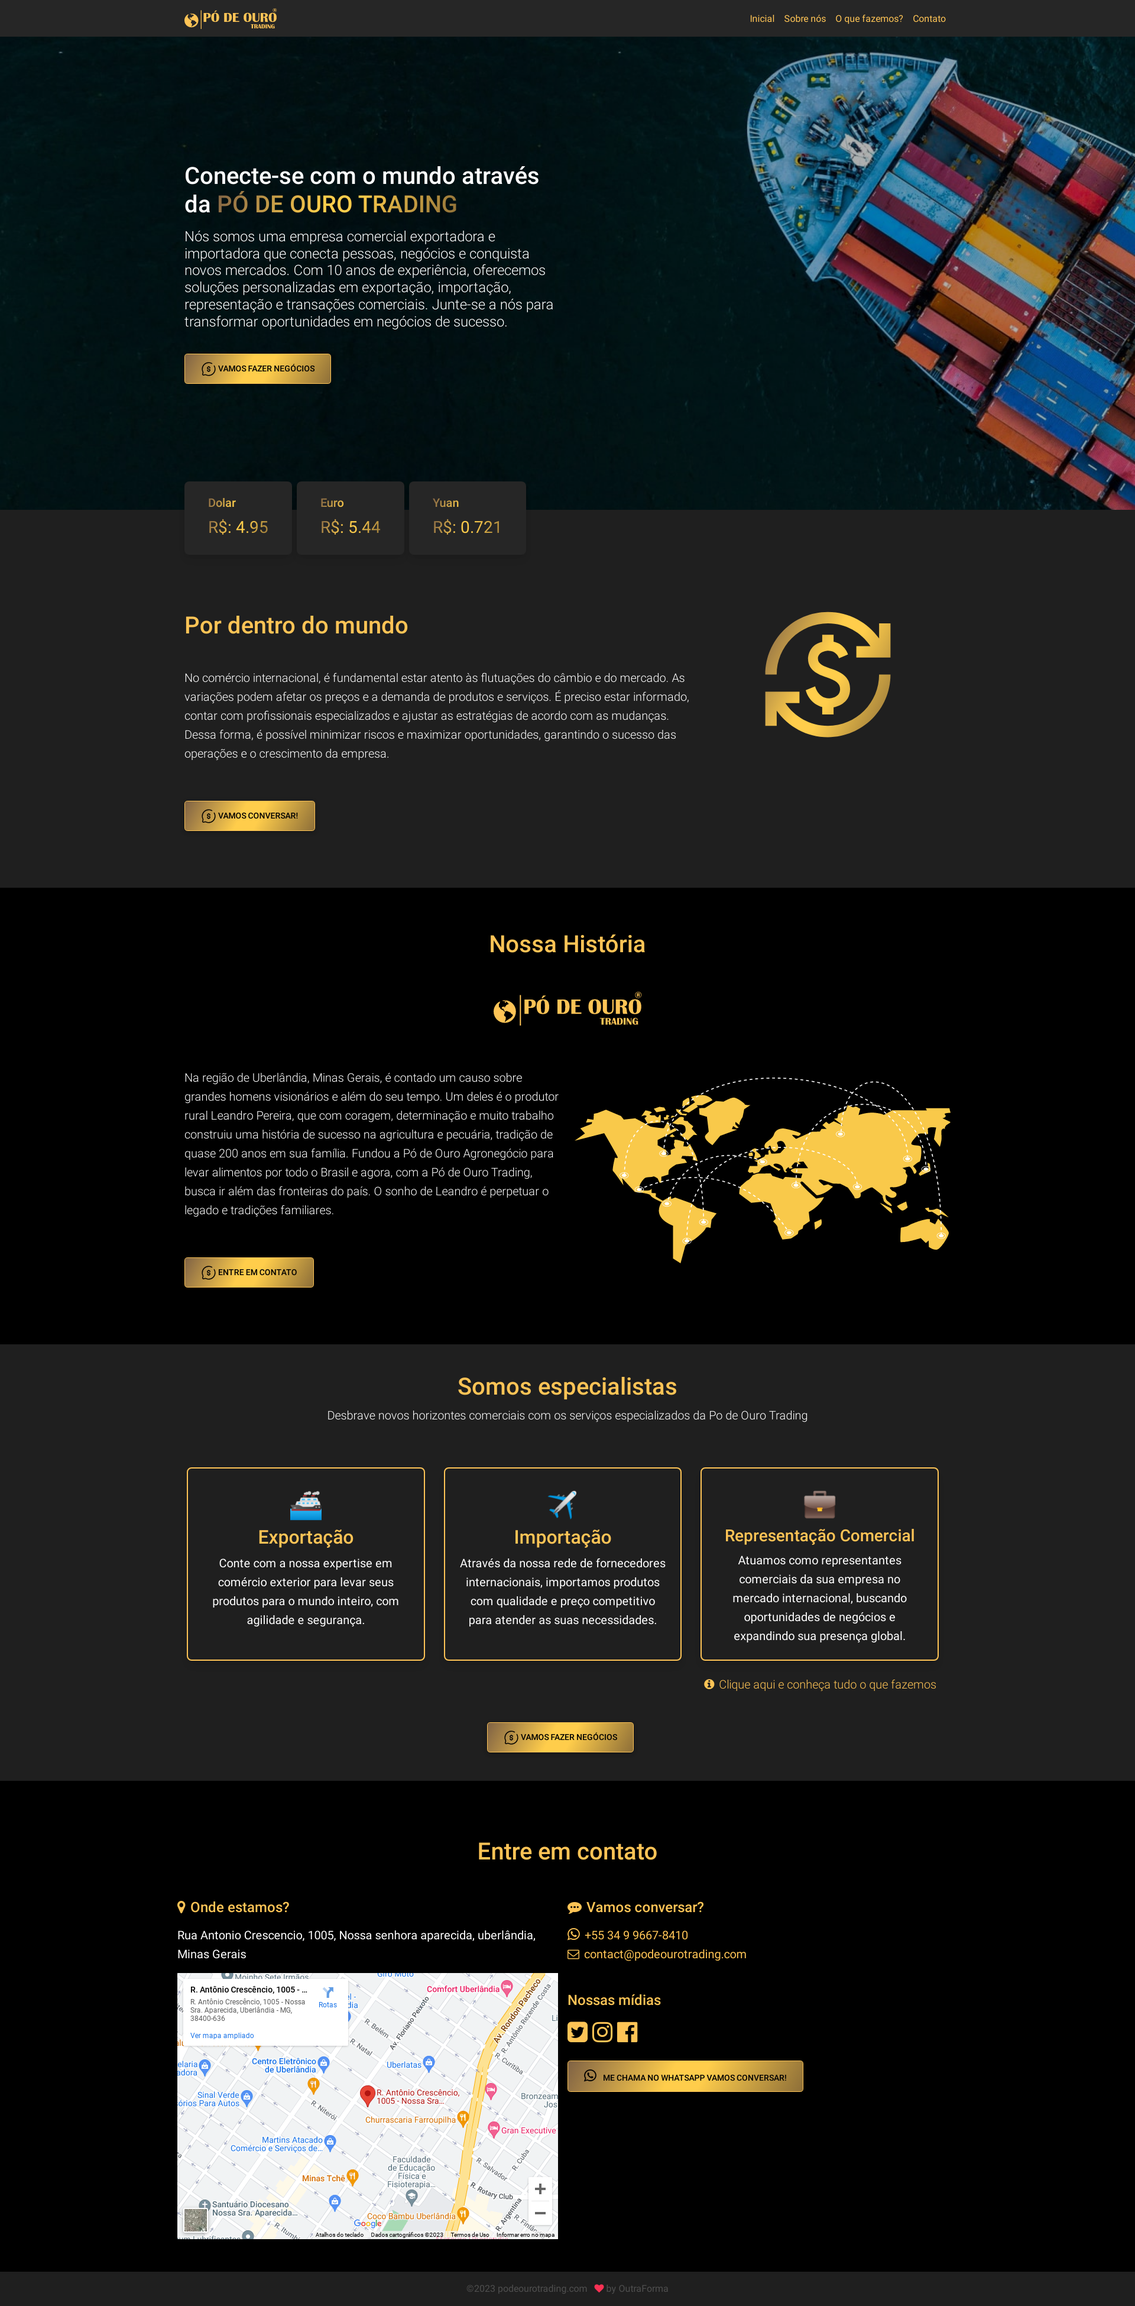
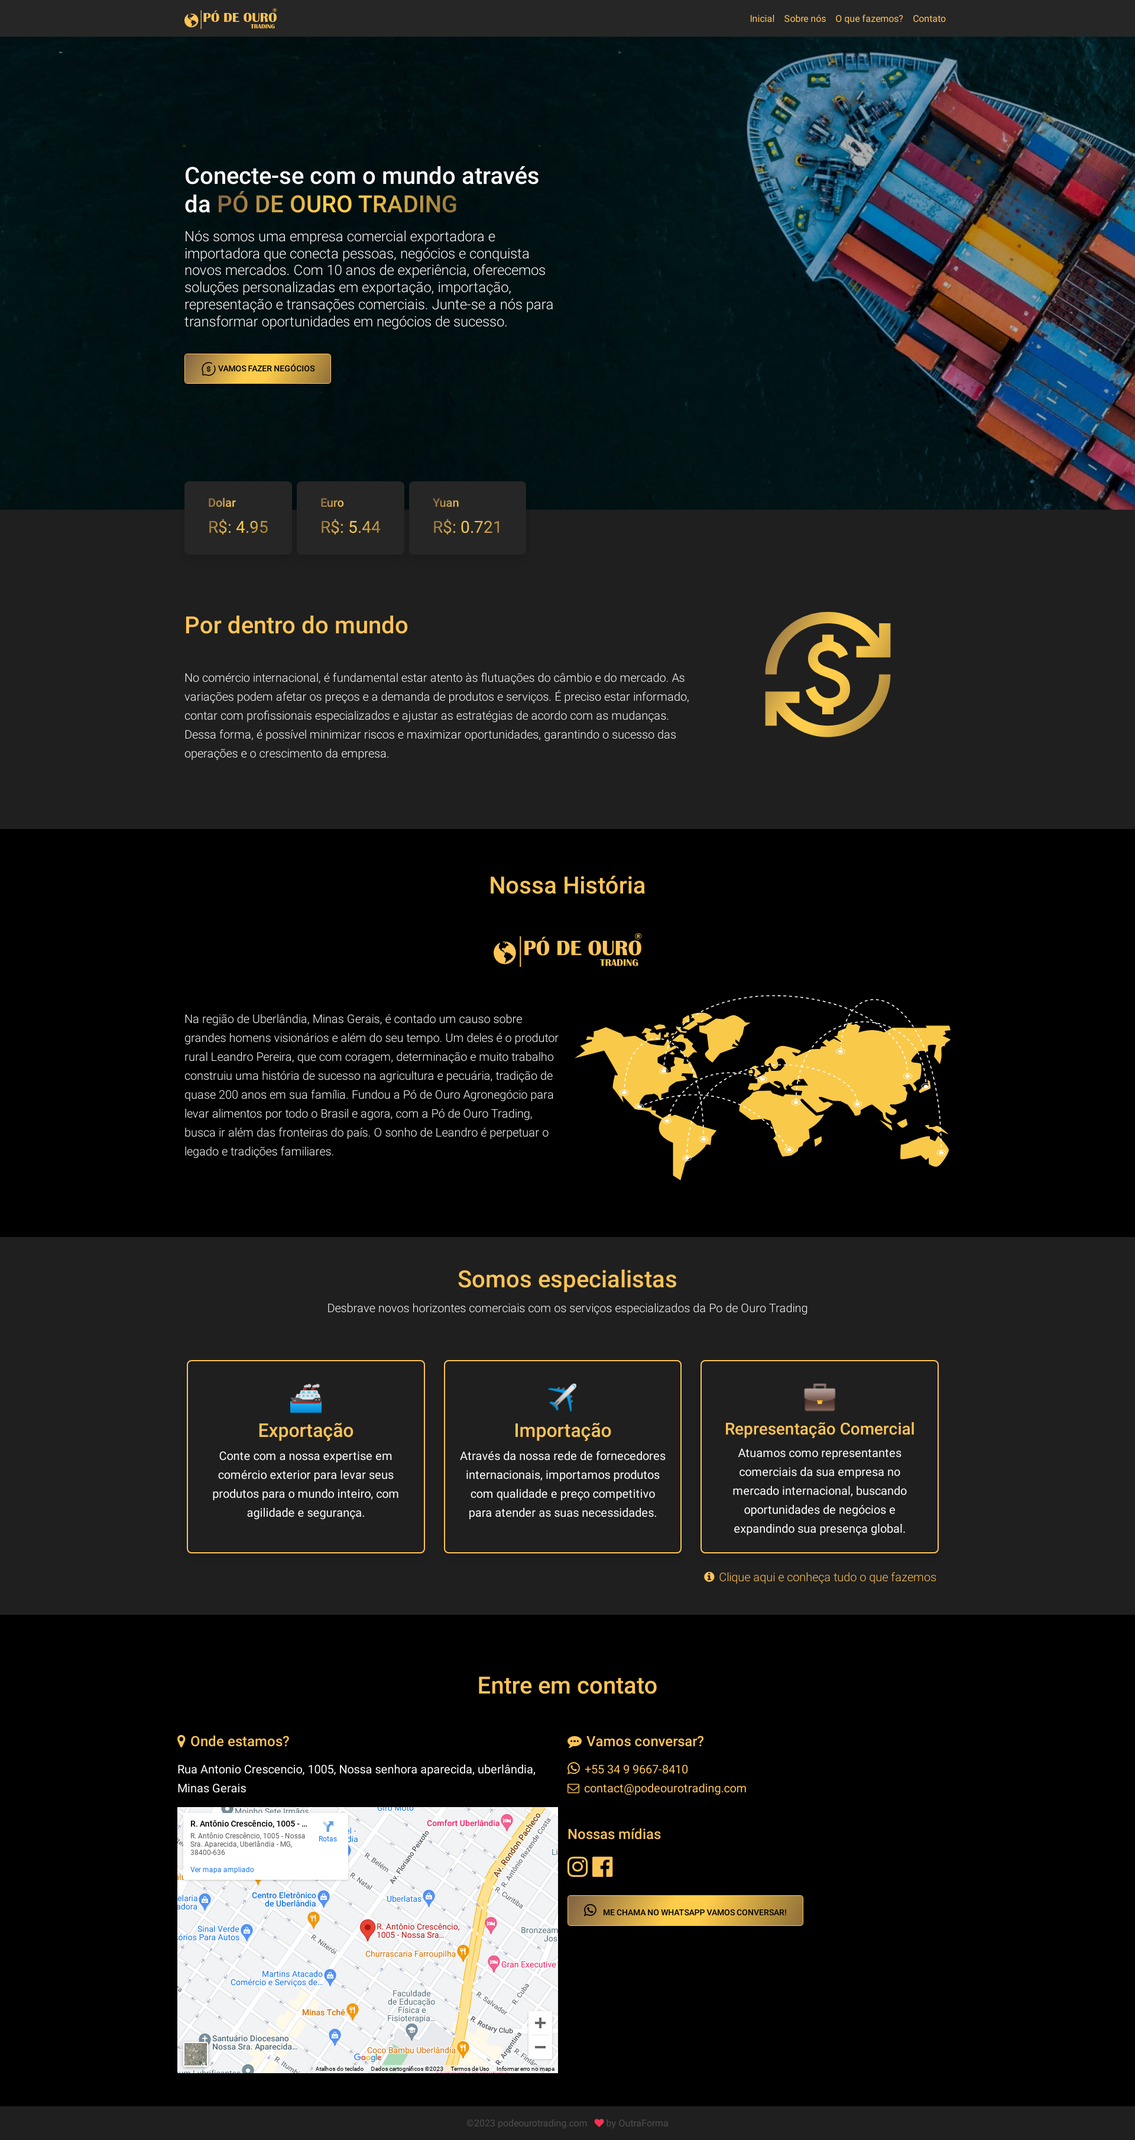
correcao https

diff --git a/index.html b/index.html
@@ -26,6 +26,11 @@
   <!-- CSS ICON PERSONALIZADO -->
   <link rel="stylesheet" href="css/icones.css">
 
+  <script
+  src="https://code.jquery.com/jquery-3.6.4.min.js"
+  integrity="sha256-oP6HI9z1XaZNBrJURtCoUT5SUnxFr8s3BzRl+cbzUq8="
+  crossorigin="anonymous"></script>
+
 
 </head>
 
@@ -83,7 +88,7 @@
             <div class="col-md-6">
               <div class="text-white">
                 <h1 class="mb-3">Conecte-se com o mundo através da
-                  <span class="especial-text">PÓ DE OURO TRADING</span>
+                  <span class="especial-text text-focus-in">PÓ DE OURO TRADING</span>
                 </h1>
                 <h4 class="mb-4" style="font-weight: lighter;">Nós somos uma empresa comercial exportadora e importadora
                   que conecta pessoas, negócios e conquista novos mercados. Com 10 anos de experiência, oferecemos
@@ -128,40 +133,52 @@
           <div class="card  ps-3 pe-3 bg-dark me-2">
             <div class="card-body text-start">
               <h5 class="card-title especial-text">Dolar</h5>
-              <p class="card-text fs-3 especial-text" id='dolar'></p>
+              <p class="card-text fs-3 especial-text" id='dolar'><div class="spinner-border" role="status">
+                <span class="visually-hidden">Loading...</span>
+              </div></p>
             </div>
           </div>
           <div class="card  ps-3 pe-3 bg-dark me-2">
             <div class="card-body text-start">
               <h5 class="card-title especial-text">Euro</h5>
-              <p class="card-text fs-3 especial-text" id='euro'></p>
+              <p class="card-text fs-3 especial-text" id='euro'><div class="spinner-border" role="status">
+                <span class="visually-hidden">Loading...</span>
+              </div></p>
             </div>
           </div>
           <div class="card ps-3 pe-3 bg-dark text-start">
             <div class="card-body ">
               <h5 class="card-title especial-text">Yuan</h5>
-              <p class="card-text fs-3 especial-text" id='yuan'></p>
+              <p class="card-text fs-3 especial-text" id='yuan'><div class="spinner-border" role="status">
+                <span class="visually-hidden">Loading...</span>
+              </div></p>
             </div>
           </div>
         </div>
         <div class="d-md-none col-md-12 mb-2">
           <div class="card bg-dark">
             <div class="card-body text-start">
-              <h5 class="card-title especial-text">Dolar: <span id="dolar-sm" class="h6"></span></h5>
+              <h5 class="card-title especial-text">Dolar: <span id="dolar-sm" class="h6"><div class="spinner-border" role="status">
+                <span class="visually-hidden">Loading...</span>
+              </div></span></h5>
             </div>
           </div>
         </div>
         <div class="d-md-none col-md-12 mb-2">
           <div class="card bg-dark">
             <div class="card-body text-start">
-              <h5 class="card-title especial-text">Euro: <span id="euro-sm" class="h6"></span></h5>
+              <h5 class="card-title especial-text">Euro: <span id="euro-sm" class="h6"><div class="spinner-border" role="status">
+                <span class="visually-hidden">Loading...</span>
+              </div></span></h5>
             </div>
           </div>
         </div>
         <div class="d-md-none col-md-12">
           <div class="card bg-dark text-start">
             <div class="card-body ">
-              <h5 class="card-title especial-text">Yuan: <span id="yuan-sm" class="h6"></span></h5>
+              <h5 class="card-title especial-text">Yuan: <span id="yuan-sm" class="h6"><div class="spinner-border" role="status">
+                <span class="visually-hidden">Loading...</span>
+              </div></span></h5>
             </div>
           </div>
         </div>
@@ -170,7 +187,7 @@
         <div class="col-md-8">
           <h2 class="h1 text-principal">Por dentro do mundo</h2>
           <p class="text-white fs-5 mt-5" style="font-weight: lighter;">No comércio internacional, é fundamental estar atento às flutuações do câmbio e do mercado. As variações podem afetar os preços e a demanda de produtos e serviços. É preciso estar informado, contar com profissionais especializados e ajustar as estratégias de acordo com as mudanças. Dessa forma, é possível minimizar riscos e maximizar oportunidades, garantindo o sucesso das operações e o crescimento da empresa.</p>
-          <a class="btn btn-especial btn-lg mt-5 d-none d-md-inline-block" href="https://wa.me/5534996678410?text=Ol%C3%A1%2C+Quero+fazer+neg%C3%B3cios+hoje." role="button"
+          <a class="btn btn-especial btn-lg mt-5 d-none" href="https://wa.me/5534996678410?text=Ol%C3%A1%2C+Quero+fazer+neg%C3%B3cios+hoje." role="button"
                   rel="nofollow" target="_blank"><svg width="26" height="26" viewBox="0 0 26 26" fill="none"
                     xmlns="http://www.w3.org/2000/svg">
                     <path
@@ -180,7 +197,7 @@
                       d="M18.4166 3.61617C16.7705 2.66381 14.9017 2.16374 13 2.16667C7.01671 2.16667 2.16663 7.01675 2.16663 13C2.16663 14.7333 2.57396 16.3713 3.29654 17.8241C3.48938 18.2098 3.55329 18.6507 3.44171 19.0678L2.79713 21.4793C2.73352 21.7178 2.73376 21.9689 2.79782 22.2074C2.86188 22.4459 2.9875 22.6633 3.16209 22.8379C3.33668 23.0125 3.55411 23.1381 3.79257 23.2021C4.03102 23.2662 4.28213 23.2664 4.52071 23.2028L6.93221 22.5583C7.35082 22.4529 7.79349 22.5041 8.17696 22.7023C9.67513 23.4484 11.3263 23.8356 13 23.8333C18.9832 23.8333 23.8333 18.9833 23.8333 13C23.8333 11.0273 23.3057 9.17584 22.3838 7.58334"
                       stroke="black" stroke-width="1.5" stroke-linecap="round" />
                   </svg> Vamos conversar!</a>
-                  <a class="btn btn-especial btn-lg mt-5 d-md-none w-100" href="https://wa.me/5534996678410?text=Ol%C3%A1%2C+Quero+fazer+neg%C3%B3cios+hoje." role="button"
+                  <a class="btn btn-especial btn-lg mt-5 d-none w-100" href="https://wa.me/5534996678410?text=Ol%C3%A1%2C+Quero+fazer+neg%C3%B3cios+hoje." role="button"
                   rel="nofollow" target="_blank"><svg width="26" height="26" viewBox="0 0 26 26" fill="none"
                     xmlns="http://www.w3.org/2000/svg">
                     <path
@@ -192,7 +209,7 @@
                   </svg> Vamos conversar!</a>
         </div>
         <div class="col-md-4 text-center d-none d-md-block">
-          <img src="img/dolar.svg" alt="Nós te ajudamos a fazer negocios." class="text-center">
+          <img src="img/dolar.svg" alt="Nós te ajudamos a fazer negocios." class="text-center rotate-center">
 
         </div>
       </div>
@@ -214,7 +231,7 @@
           <p class="text-white fs-5 mt-4 " style="font-weight: lighter;">
             Na região de Uberlândia, Minas Gerais, é contado um causo sobre grandes homens visionários e além do seu tempo. Um deles é o produtor rural Leandro Pereira, que com coragem, determinação e muito trabalho construiu uma história de sucesso na agricultura e pecuária, tradição de quase 200 anos em sua família. Fundou a Pó de Ouro Agronegócio para levar alimentos por todo o Brasil e agora, com a Pó de Ouro Trading, busca ir além das fronteiras do país. O sonho de Leandro é perpetuar o legado e tradições familiares.
           </p>
-          <a class="btn btn-especial btn-lg mt-5 d-none d-md-inline-block" href="https://wa.me/5534996678410?text=Ol%C3%A1%2C+Quero+fazer+neg%C3%B3cios+hoje." role="button"
+          <a class="btn btn-especial btn-lg mt-5 d-none" href="https://wa.me/5534996678410?text=Ol%C3%A1%2C+Quero+fazer+neg%C3%B3cios+hoje." role="button"
           rel="nofollow" target="_blank"><svg width="26" height="26" viewBox="0 0 26 26" fill="none"
             xmlns="http://www.w3.org/2000/svg">
             <path
@@ -224,7 +241,7 @@
               d="M18.4166 3.61617C16.7705 2.66381 14.9017 2.16374 13 2.16667C7.01671 2.16667 2.16663 7.01675 2.16663 13C2.16663 14.7333 2.57396 16.3713 3.29654 17.8241C3.48938 18.2098 3.55329 18.6507 3.44171 19.0678L2.79713 21.4793C2.73352 21.7178 2.73376 21.9689 2.79782 22.2074C2.86188 22.4459 2.9875 22.6633 3.16209 22.8379C3.33668 23.0125 3.55411 23.1381 3.79257 23.2021C4.03102 23.2662 4.28213 23.2664 4.52071 23.2028L6.93221 22.5583C7.35082 22.4529 7.79349 22.5041 8.17696 22.7023C9.67513 23.4484 11.3263 23.8356 13 23.8333C18.9832 23.8333 23.8333 18.9833 23.8333 13C23.8333 11.0273 23.3057 9.17584 22.3838 7.58334"
               stroke="black" stroke-width="1.5" stroke-linecap="round" />
           </svg> Entre em contato</a>
-          <a class="btn btn-especial btn-lg mt-5 w-100 d-md-none" href="https://wa.me/5534996678410?text=Ol%C3%A1%2C+Quero+fazer+neg%C3%B3cios+hoje." role="button"
+          <a class="btn btn-especial btn-lg mt-5 w-100 d-none" href="https://wa.me/5534996678410?text=Ol%C3%A1%2C+Quero+fazer+neg%C3%B3cios+hoje." role="button"
           rel="nofollow" target="_blank"><svg width="26" height="26" viewBox="0 0 26 26" fill="none"
             xmlns="http://www.w3.org/2000/svg">
             <path
@@ -236,7 +253,7 @@
           </svg> Entre em contato</a>
         </div>
         <div class="col-md-6 d-flex align-items-center mt-5 mt-md-0 justify-content-center" >
-          <img src="img/mapa.svg" alt="" width="100%">
+          <img src="img/mapa.svg" alt="" width="100%" class="tilt-in-fwd-tr ">
         </div>
       </div>
     </article>
@@ -359,7 +376,7 @@
             <i class="fas fa-circle-info"></i>
             <a href="#" class="fs-5 fw-light text-principal"><i class="fa fa-info-circle me-2" aria-hidden="true"></i>Clique aqui e conheça tudo o que fazemos</a>
           </div>
-          <div class="col-md-12 text-center d-md-block d-none">
+          <div class="col-md-12 text-center d-none">
             <a class="btn btn-especial btn-lg mt-5" href="https://wa.me/5534996678410?text=Ol%C3%A1%2C+Quero+fazer+neg%C3%B3cios+hoje." role="button"
             rel="nofollow" target="_blank"><svg width="26" height="26" viewBox="0 0 26 26" fill="none"
               xmlns="http://www.w3.org/2000/svg">
@@ -371,7 +388,7 @@
                 stroke="black" stroke-width="1.5" stroke-linecap="round" />
             </svg> Vamos fazer negócios</a>
           </div>
-          <div class="col-md-12 text-center d-md-none">
+          <div class="col-md-12 text-center d-none">
             <a class="btn btn-especial btn-lg mt-5 w-100" href="https://wa.me/5534996678410?text=Ol%C3%A1%2C+Quero+fazer+neg%C3%B3cios+hoje." role="button"
             rel="nofollow" target="_blank"><svg width="26" height="26" viewBox="0 0 26 26" fill="none"
               xmlns="http://www.w3.org/2000/svg">
@@ -414,7 +431,7 @@
             </div>
             <div class="row mt-2 gx-0 gx-md-3">
               <div class="col-md-12 link-icones">
-                <a class="" href="http://"><i class="fa fa-twitter-square h1 me-2" aria-hidden="true"></i></a><a class="" href="http://"><i class="fa fa-instagram h1 me-2" aria-hidden="true"></i></a><a class="" href="http://"><i class="fa fa-facebook-official h1" aria-hidden="true"></i></a>
+                <a class="" href="http://"><i class="fa fa-instagram h1 me-2" aria-hidden="true"></i></a><a class="" href="http://"><i class="fa fa-facebook-official h1" aria-hidden="true"></i></a>
               </div>
               <div class="col-md-12 d-none d-md-block">
                 <a class="btn btn-especial btn-lg mt-3" href="https://wa.me/5534996678410?text=Ol%C3%A1%2C+Quero+fazer+neg%C3%B3cios+hoje." role="button"
@@ -464,6 +481,7 @@
           // Preenche o elemento <p> com o ID "dolar" com o valor da taxa de câmbio
           const dolarElement = document.getElementById('dolar');
           dolarElement.textContent = `R$: ${dollarToBRLRate}`;
+          $(".spinner-border").addClass("d-none");
         })
         .catch(error => {
           console.error('Erro ao obter a taxa de câmbio:', error);
@@ -482,6 +500,7 @@
           // Preenche o elemento <p> com o ID "dolar" com o valor da taxa de câmbio
           const dolarElement = document.getElementById('dolar-sm');
           dolarElement.textContent = `R$: ${dollarToBRLRate}`;
+          $(".spinner-border").addClass("d-none");
         })
         .catch(error => {
           console.error('Erro ao obter a taxa de câmbio:', error);
@@ -501,6 +520,7 @@
           // Preenche o elemento <p> com o ID "dolar" com o valor da taxa de câmbio
           const dolarElement = document.getElementById('euro');
           dolarElement.textContent = `R$: ${dollarToBRLRate}`;
+          $(".spinner-border").addClass("d-none");
         })
         .catch(error => {
           console.error('Erro ao obter a taxa de câmbio:', error);
@@ -537,6 +557,7 @@
           // Preenche o elemento <p> com o ID "dolar" com o valor da taxa de câmbio
           const dolarElement = document.getElementById('yuan');
           dolarElement.textContent = `R$: ${dollarToBRLRate}`;
+          $(".spinner-border").addClass("d-none");
         })
         .catch(error => {
           console.error('Erro ao obter a taxa de câmbio:', error);
@@ -556,6 +577,7 @@
           // Preenche o elemento <p> com o ID "dolar" com o valor da taxa de câmbio
           const dolarElement = document.getElementById('yuan-sm');
           dolarElement.textContent = `R$: ${dollarToBRLRate}`;
+          $(".spinner-border").addClass("d-none");
         })
         .catch(error => {
           console.error('Erro ao obter a taxa de câmbio:', error);

diff --git a/css/personalizado.css b/css/personalizado.css
@@ -89,6 +89,10 @@
     border: 2px solid #FEC456 !important;
 }
 
+.card-servicos:hover {
+    border: 2px solid #ffffff !important;
+}
+
 
 /* Contato */
 
@@ -109,3 +113,178 @@
 .bg-footer {
     background: #1F1F1F !important;
 }
+
+
+/* Animações */
+
+.text-focus-in {
+	-webkit-animation: text-focus-in 1s cubic-bezier(0.550, 0.085, 0.680, 0.530) both;
+	        animation: text-focus-in 1s cubic-bezier(0.550, 0.085, 0.680, 0.530) both;
+}
+
+/* ----------------------------------------------
+ * Generated by Animista on 2023-4-18 23:7:56
+ * Licensed under FreeBSD License.
+ * See http://animista.net/license for more info. 
+ * w: http://animista.net, t: @cssanimista
+ * ---------------------------------------------- */
+
+/**
+ * ----------------------------------------
+ * animation text-focus-in
+ * ----------------------------------------
+ */
+ @-webkit-keyframes text-focus-in {
+    0% {
+      -webkit-filter: blur(12px);
+              filter: blur(12px);
+      opacity: 0;
+    }
+    100% {
+      -webkit-filter: blur(0px);
+              filter: blur(0px);
+      opacity: 1;
+    }
+  }
+  @keyframes text-focus-in {
+    0% {
+      -webkit-filter: blur(12px);
+              filter: blur(12px);
+      opacity: 0;
+    }
+    100% {
+      -webkit-filter: blur(0px);
+              filter: blur(0px);
+      opacity: 1;
+    }
+  }
+  
+
+  .rotate-center {
+	-webkit-animation: rotate-center 0.6s ease-in-out both;
+	        animation: rotate-center 0.6s ease-in-out both;
+}
+
+/* ----------------------------------------------
+ * Generated by Animista on 2023-4-18 23:21:30
+ * Licensed under FreeBSD License.
+ * See http://animista.net/license for more info. 
+ * w: http://animista.net, t: @cssanimista
+ * ---------------------------------------------- */
+
+/**
+ * ----------------------------------------
+ * animation rotate-center
+ * ----------------------------------------
+ */
+ @-webkit-keyframes rotate-center {
+    0% {
+      -webkit-transform: rotate(0);
+              transform: rotate(0);
+    }
+    100% {
+      -webkit-transform: rotate(360deg);
+              transform: rotate(360deg);
+    }
+  }
+  @keyframes rotate-center {
+    0% {
+      -webkit-transform: rotate(0);
+              transform: rotate(0);
+    }
+    100% {
+      -webkit-transform: rotate(360deg);
+              transform: rotate(360deg);
+    }
+  }
+  
+
+  .tilt-in-fwd-tr {
+	-webkit-animation: tilt-in-fwd-tr 0.6s cubic-bezier(0.250, 0.460, 0.450, 0.940) both;
+	        animation: tilt-in-fwd-tr 0.6s cubic-bezier(0.250, 0.460, 0.450, 0.940) both;
+}
+
+/* ----------------------------------------------
+ * Generated by Animista on 2023-4-18 23:24:33
+ * Licensed under FreeBSD License.
+ * See http://animista.net/license for more info. 
+ * w: http://animista.net, t: @cssanimista
+ * ---------------------------------------------- */
+
+/**
+ * ----------------------------------------
+ * animation tilt-in-fwd-tr
+ * ----------------------------------------
+ */
+ @-webkit-keyframes tilt-in-fwd-tr {
+    0% {
+      -webkit-transform: rotateY(20deg) rotateX(35deg) translate(300px, -300px) skew(-35deg, 10deg);
+              transform: rotateY(20deg) rotateX(35deg) translate(300px, -300px) skew(-35deg, 10deg);
+      opacity: 0;
+    }
+    100% {
+      -webkit-transform: rotateY(0) rotateX(0deg) translate(0, 0) skew(0deg, 0deg);
+              transform: rotateY(0) rotateX(0deg) translate(0, 0) skew(0deg, 0deg);
+      opacity: 1;
+    }
+  }
+  @keyframes tilt-in-fwd-tr {
+    0% {
+      -webkit-transform: rotateY(20deg) rotateX(35deg) translate(300px, -300px) skew(-35deg, 10deg);
+              transform: rotateY(20deg) rotateX(35deg) translate(300px, -300px) skew(-35deg, 10deg);
+      opacity: 0;
+    }
+    100% {
+      -webkit-transform: rotateY(0) rotateX(0deg) translate(0, 0) skew(0deg, 0deg);
+              transform: rotateY(0) rotateX(0deg) translate(0, 0) skew(0deg, 0deg);
+      opacity: 1;
+    }
+  }
+  
+
+  .kenburns-top-left {
+	-webkit-animation: kenburns-top-left 60s ease-out infinite both;
+	        animation: kenburns-top-left 60s ease-out infinite both;
+}
+
+/* ----------------------------------------------
+ * Generated by Animista on 2023-4-18 23:27:42
+ * Licensed under FreeBSD License.
+ * See http://animista.net/license for more info. 
+ * w: http://animista.net, t: @cssanimista
+ * ---------------------------------------------- */
+
+/**
+ * ----------------------------------------
+ * animation kenburns-top-left
+ * ----------------------------------------
+ */
+ @-webkit-keyframes kenburns-top-left {
+    0% {
+      -webkit-transform: scale(1) translate(0, 0);
+              transform: scale(1) translate(0, 0);
+      -webkit-transform-origin: 16% 16%;
+              transform-origin: 16% 16%;
+    }
+    100% {
+      -webkit-transform: scale(1.25) translate(-20px, -15px);
+              transform: scale(1.25) translate(-20px, -15px);
+      -webkit-transform-origin: top left;
+              transform-origin: top left;
+    }
+  }
+  @keyframes kenburns-top-left {
+    0% {
+      -webkit-transform: scale(1) translate(0, 0);
+              transform: scale(1) translate(0, 0);
+      -webkit-transform-origin: 16% 16%;
+              transform-origin: 16% 16%;
+    }
+    100% {
+      -webkit-transform: scale(1.25) translate(-20px, -15px);
+              transform: scale(1.25) translate(-20px, -15px);
+      -webkit-transform-origin: top left;
+              transform-origin: top left;
+    }
+  }
+  
